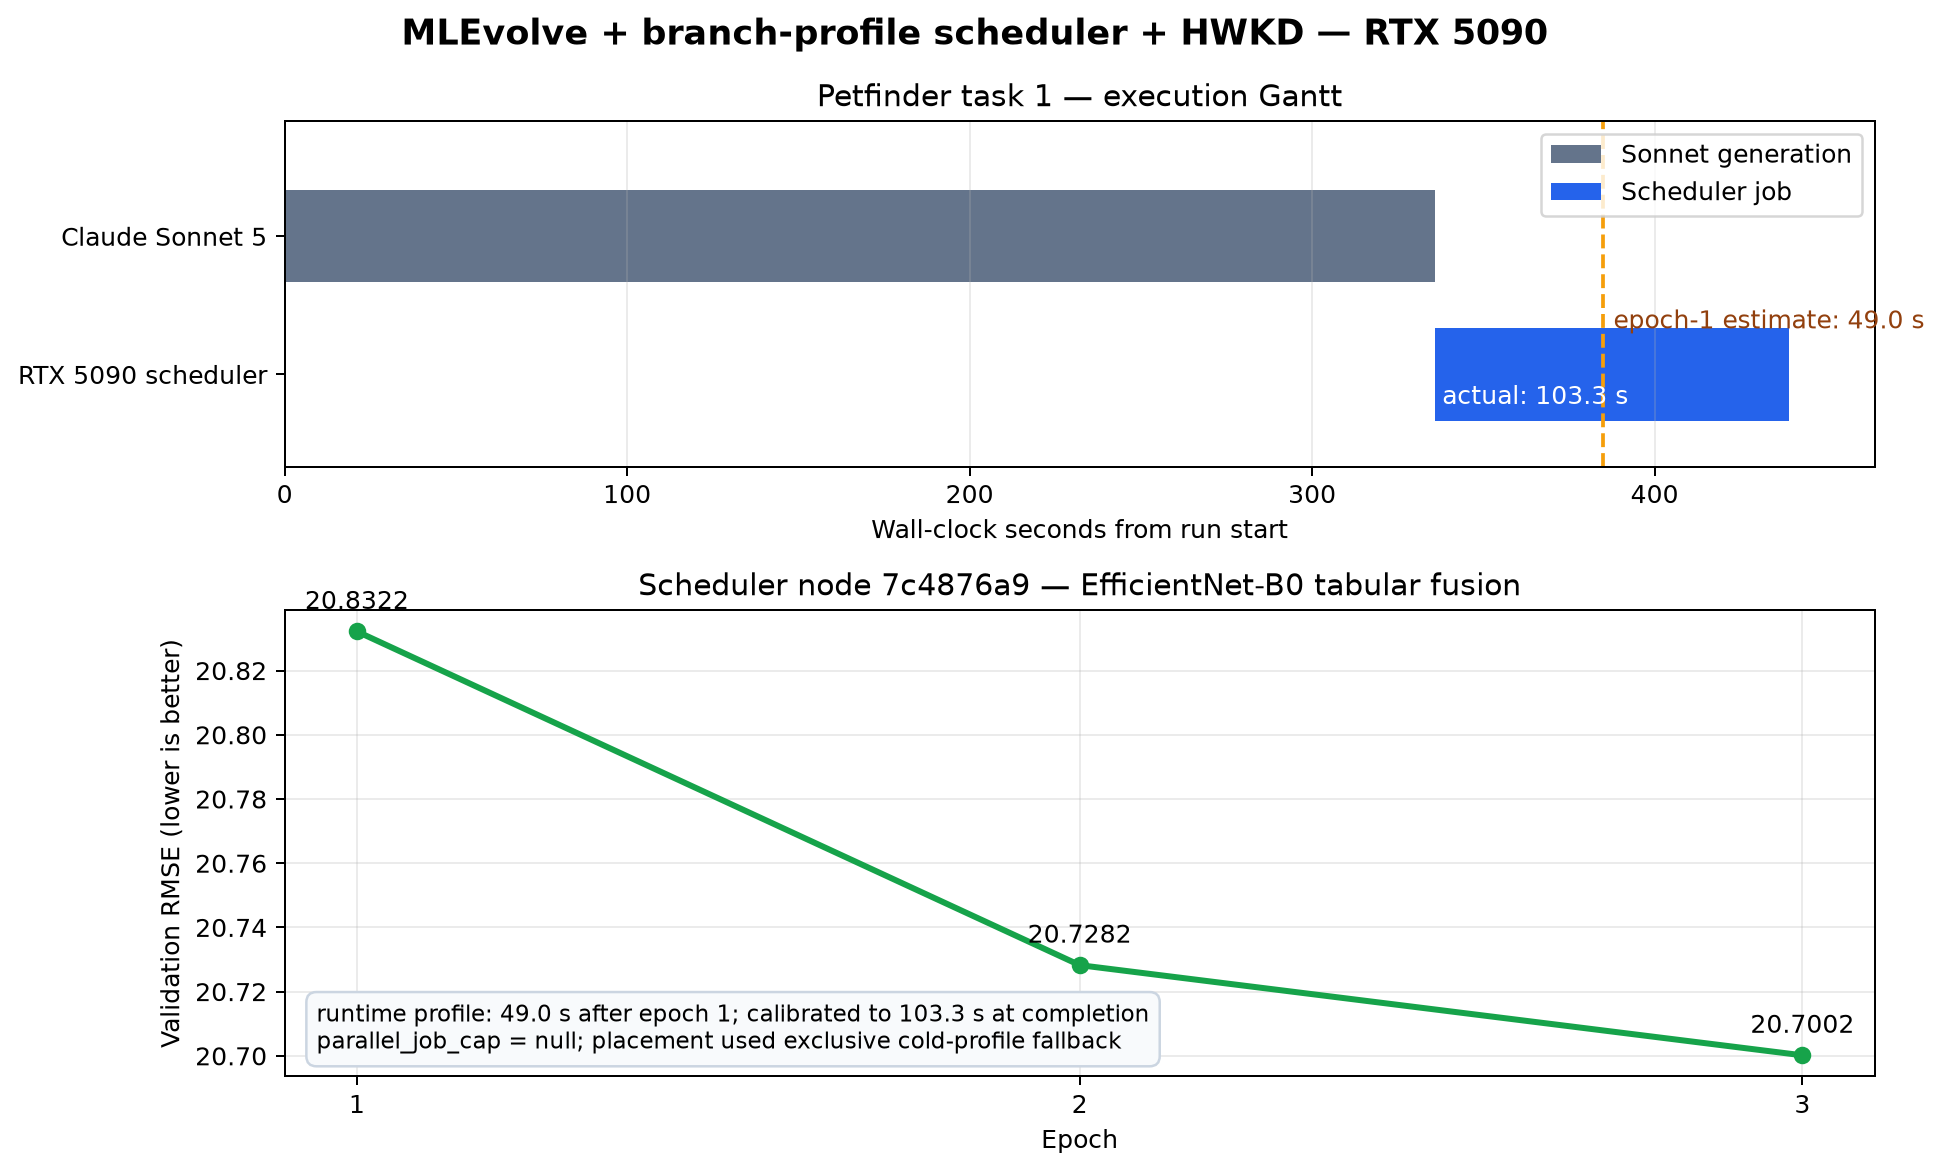
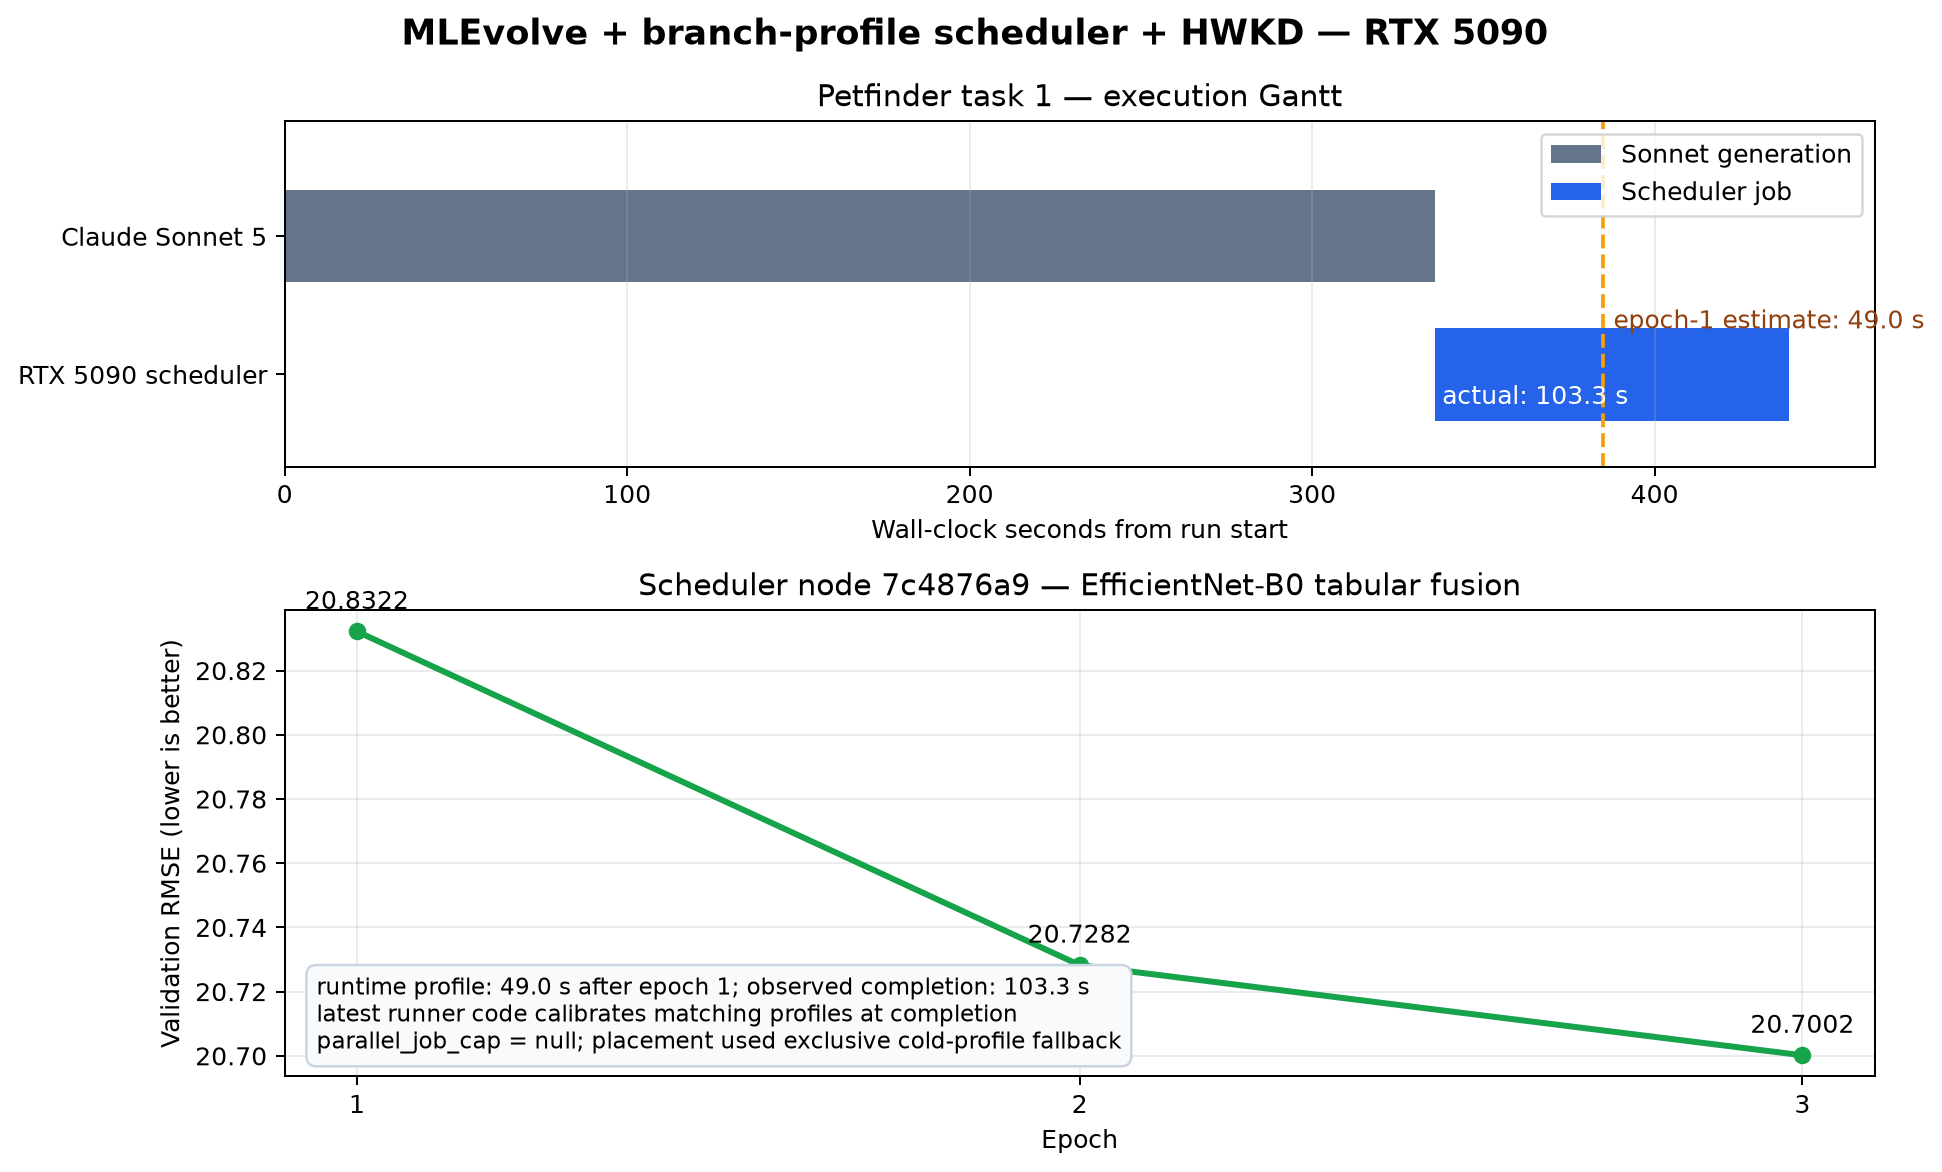
docs: clarify Petfinder runtime calibration timing

Changed region(s): [[0.1545, 0.7986, 0.587, 0.8908]]

diff --git a/utils/plot_petfinder_liveprofile.py b/utils/plot_petfinder_liveprofile.py
@@ -53,7 +53,8 @@ def main() -> None:
     metric.text(
         0.02,
         0.06,
-        "runtime profile: 49.0 s after epoch 1; calibrated to 103.3 s at completion\n"
+        "runtime profile: 49.0 s after epoch 1; observed completion: 103.3 s\n"
+        "latest runner code calibrates matching profiles at completion\n"
         "parallel_job_cap = null; placement used exclusive cold-profile fallback",
         transform=metric.transAxes,
         fontsize=9,

diff --git a/records/2026-08-28_petfinder_sonnet5090_liveprofile.md b/records/2026-08-28_petfinder_sonnet5090_liveprofile.md
@@ -36,7 +36,7 @@
 | Validation RMSE | **20.70016267132074** |
 | Scheduler execution time | 103.259 s |
 | Epoch-1 runtime estimate | 48.9999 s |
-| Completed-profile calibration | 103.259 s |
+| Observed subprocess wall-clock duration | 103.259 s |
 | Peak model memory emitted by candidate | 2,808 MiB |
 | Submission | `submission_7c4876a907fb4da5a7d224ac9fda1422.csv` |
 
@@ -44,8 +44,9 @@ The first cold job necessarily used `exclusive` placement because no matching
 profile existed at submission. Crucially, the profile was created before the
 job completed; it is therefore available for the next same-signature branch.
 The first-epoch estimate was low because it did not yet include all later
-validation and submission work; completion calibration fixes that persistent
-profile for subsequent scheduling.
+validation and submission work. The completion-calibration code was added
+immediately after this run and is regression-tested; this pre-fix run itself
+still stores its original 49.0-second profile.
 
 ## Artifacts
 
